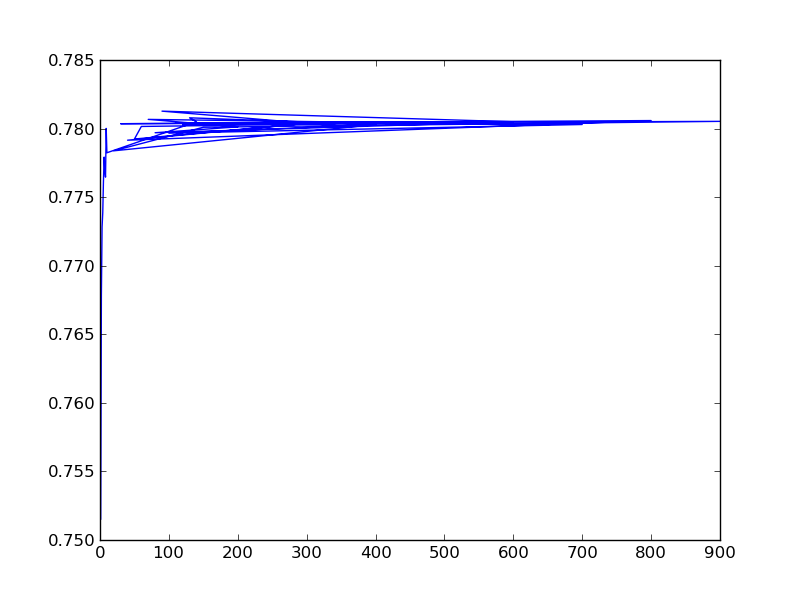
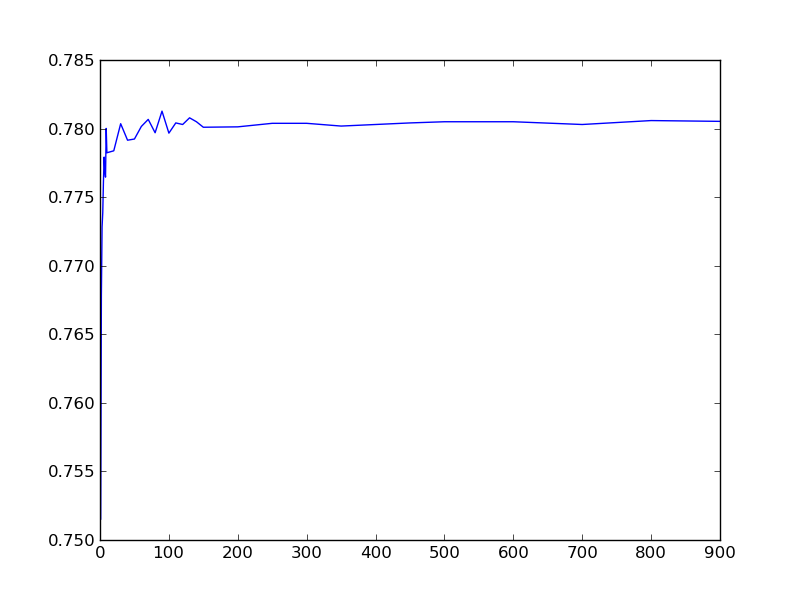
fixed requirements

Changed region(s): [[0.125, 0.18, 0.875, 0.27]]

diff --git a/evaluate.py b/evaluate.py
@@ -3,7 +3,7 @@ from dna import utils
 import matplotlib.pyplot as plt
 import os
 
-RESULTS = {}
+RESULTS = ([], [])
 
 
 def compare(filename_a, filename_b):
@@ -32,15 +32,16 @@ def execute(window):
         cmd = 'python hmm_decoder.py -o {} coli.model {} test_aa.fasta'.format(output_file, window)
         print cmd
         call(cmd, shell=True)
-    RESULTS[window] = compare(output_file, 'test.fasta')
-    print(RESULTS[window])
+    RESULTS[0].append(window)
+    RESULTS[1].append(compare(output_file, 'test.fasta'))
+    print(RESULTS[1][-1])
 
 
 def graph():
     fig = plt.figure()
     ax = fig.add_subplot(111)
 
-    ax.plot(RESULTS.keys(), RESULTS.values())
+    ax.plot(RESULTS[0], RESULTS[1])
 
     plt.savefig('foo.png')
 
